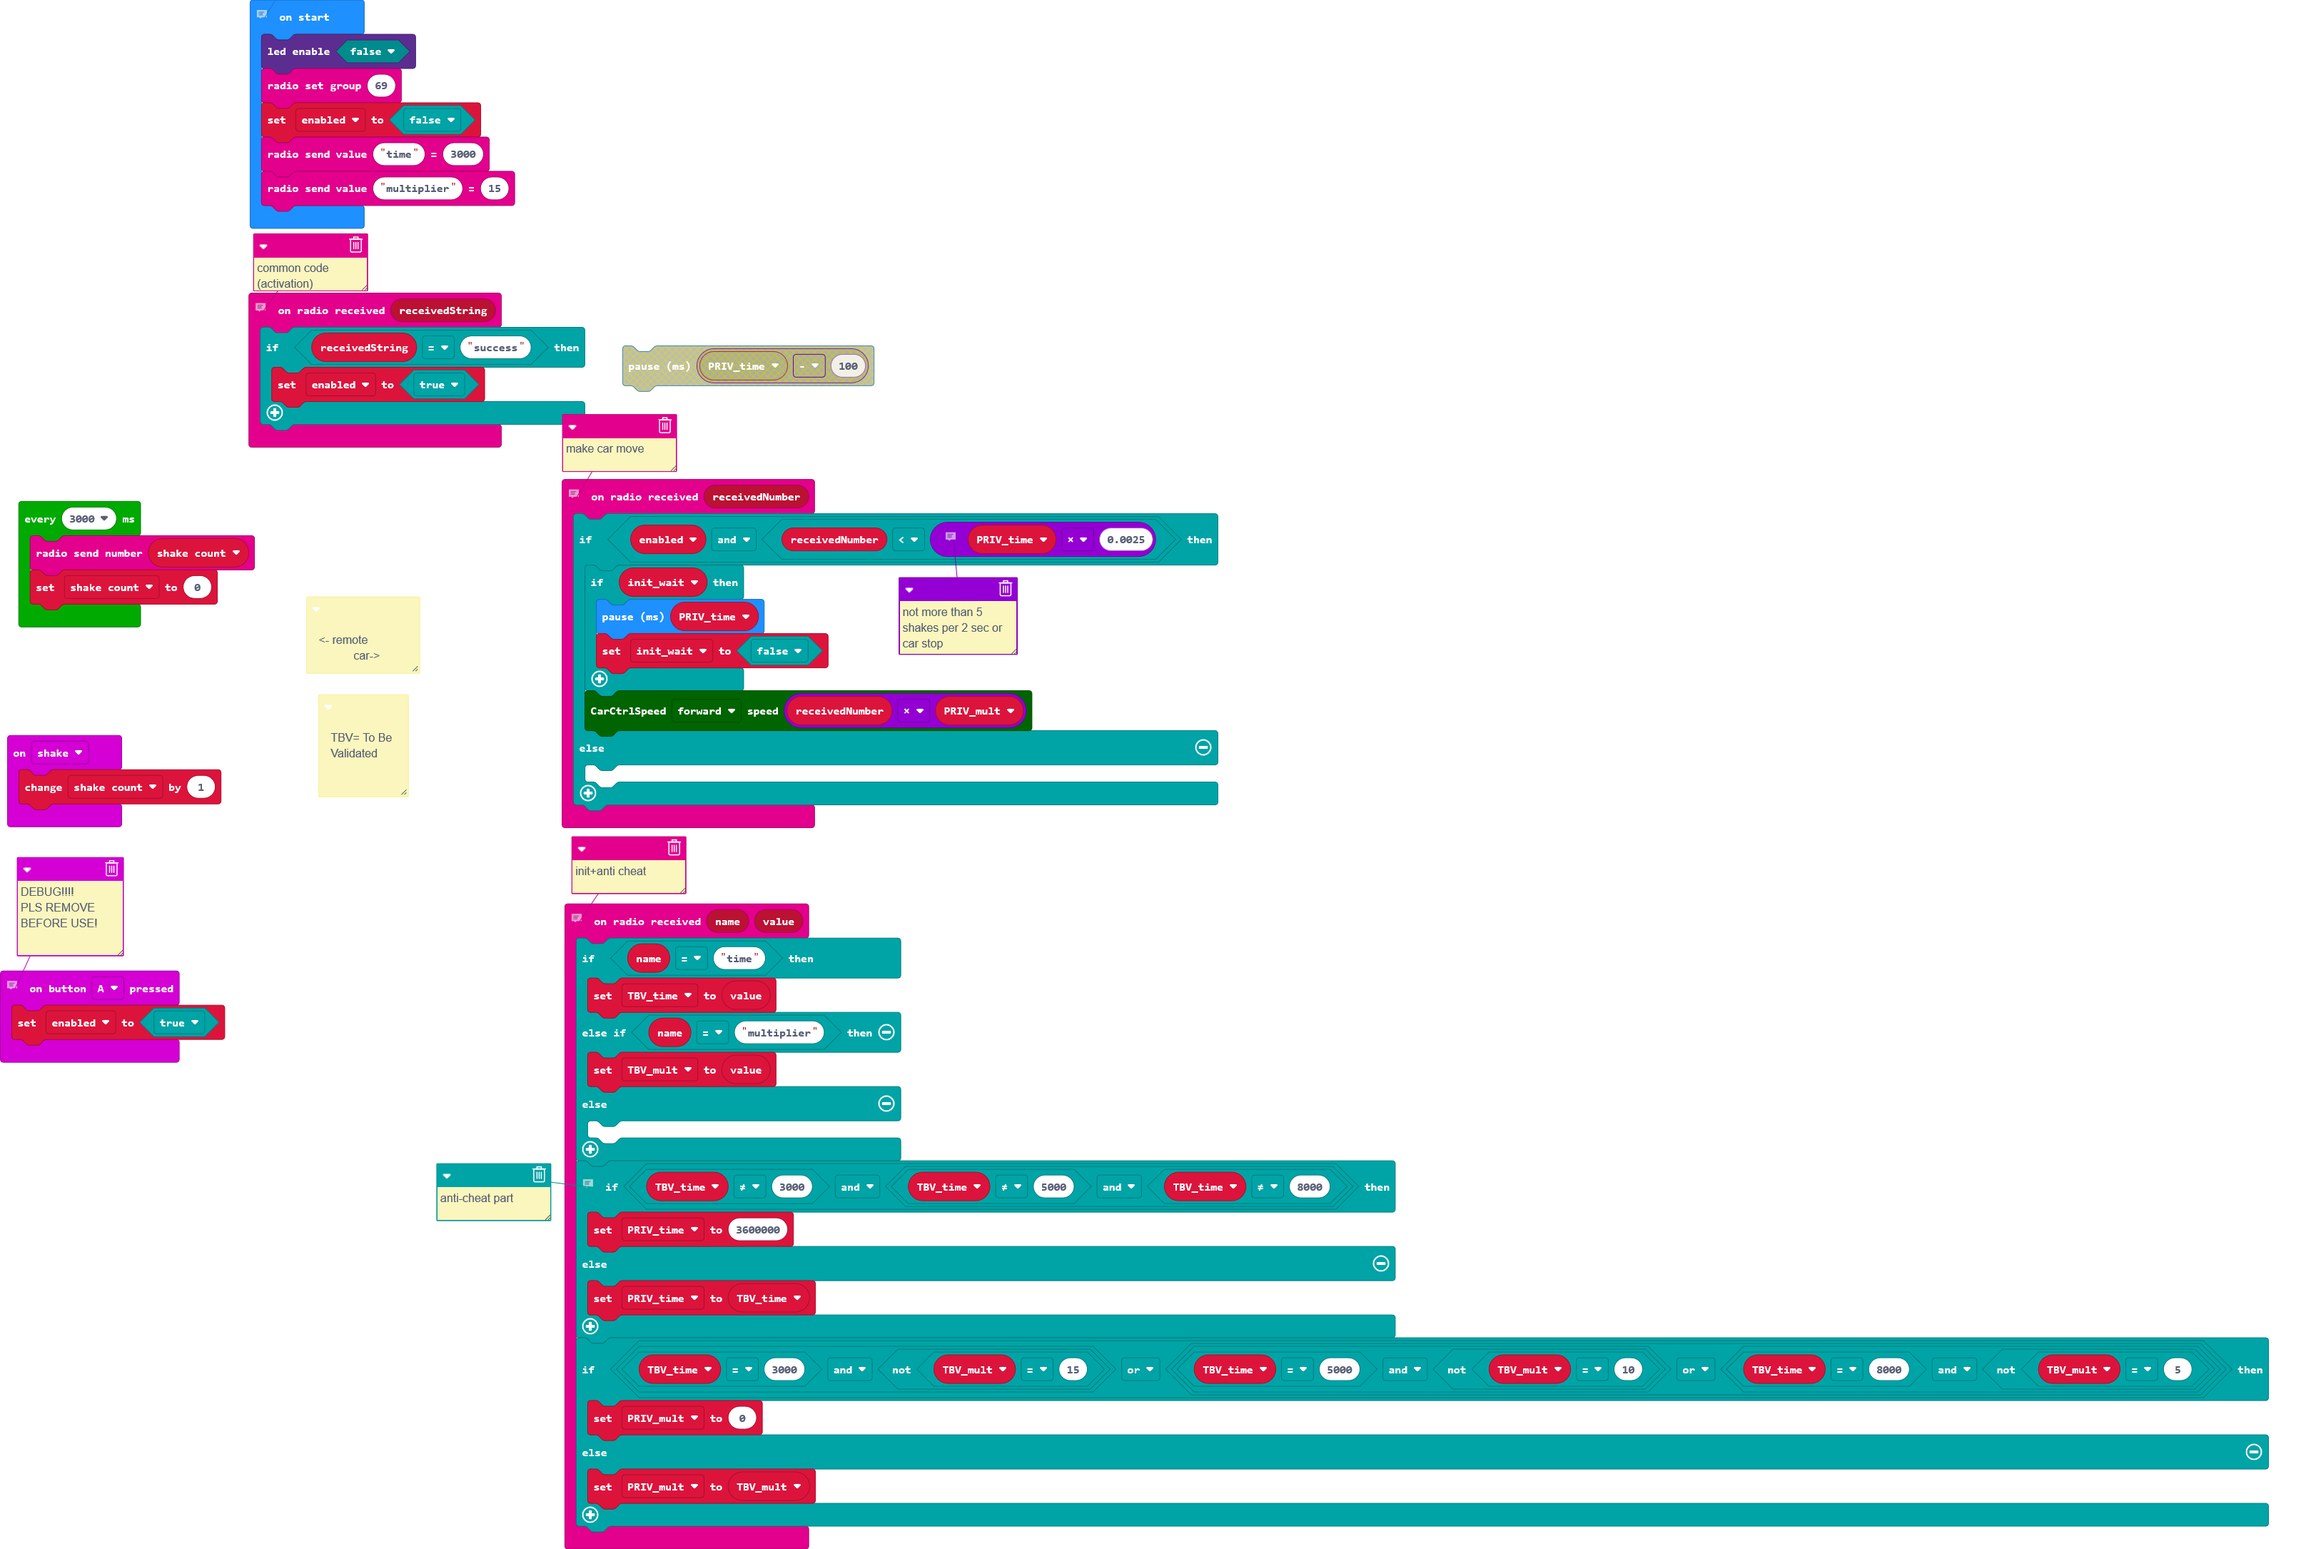
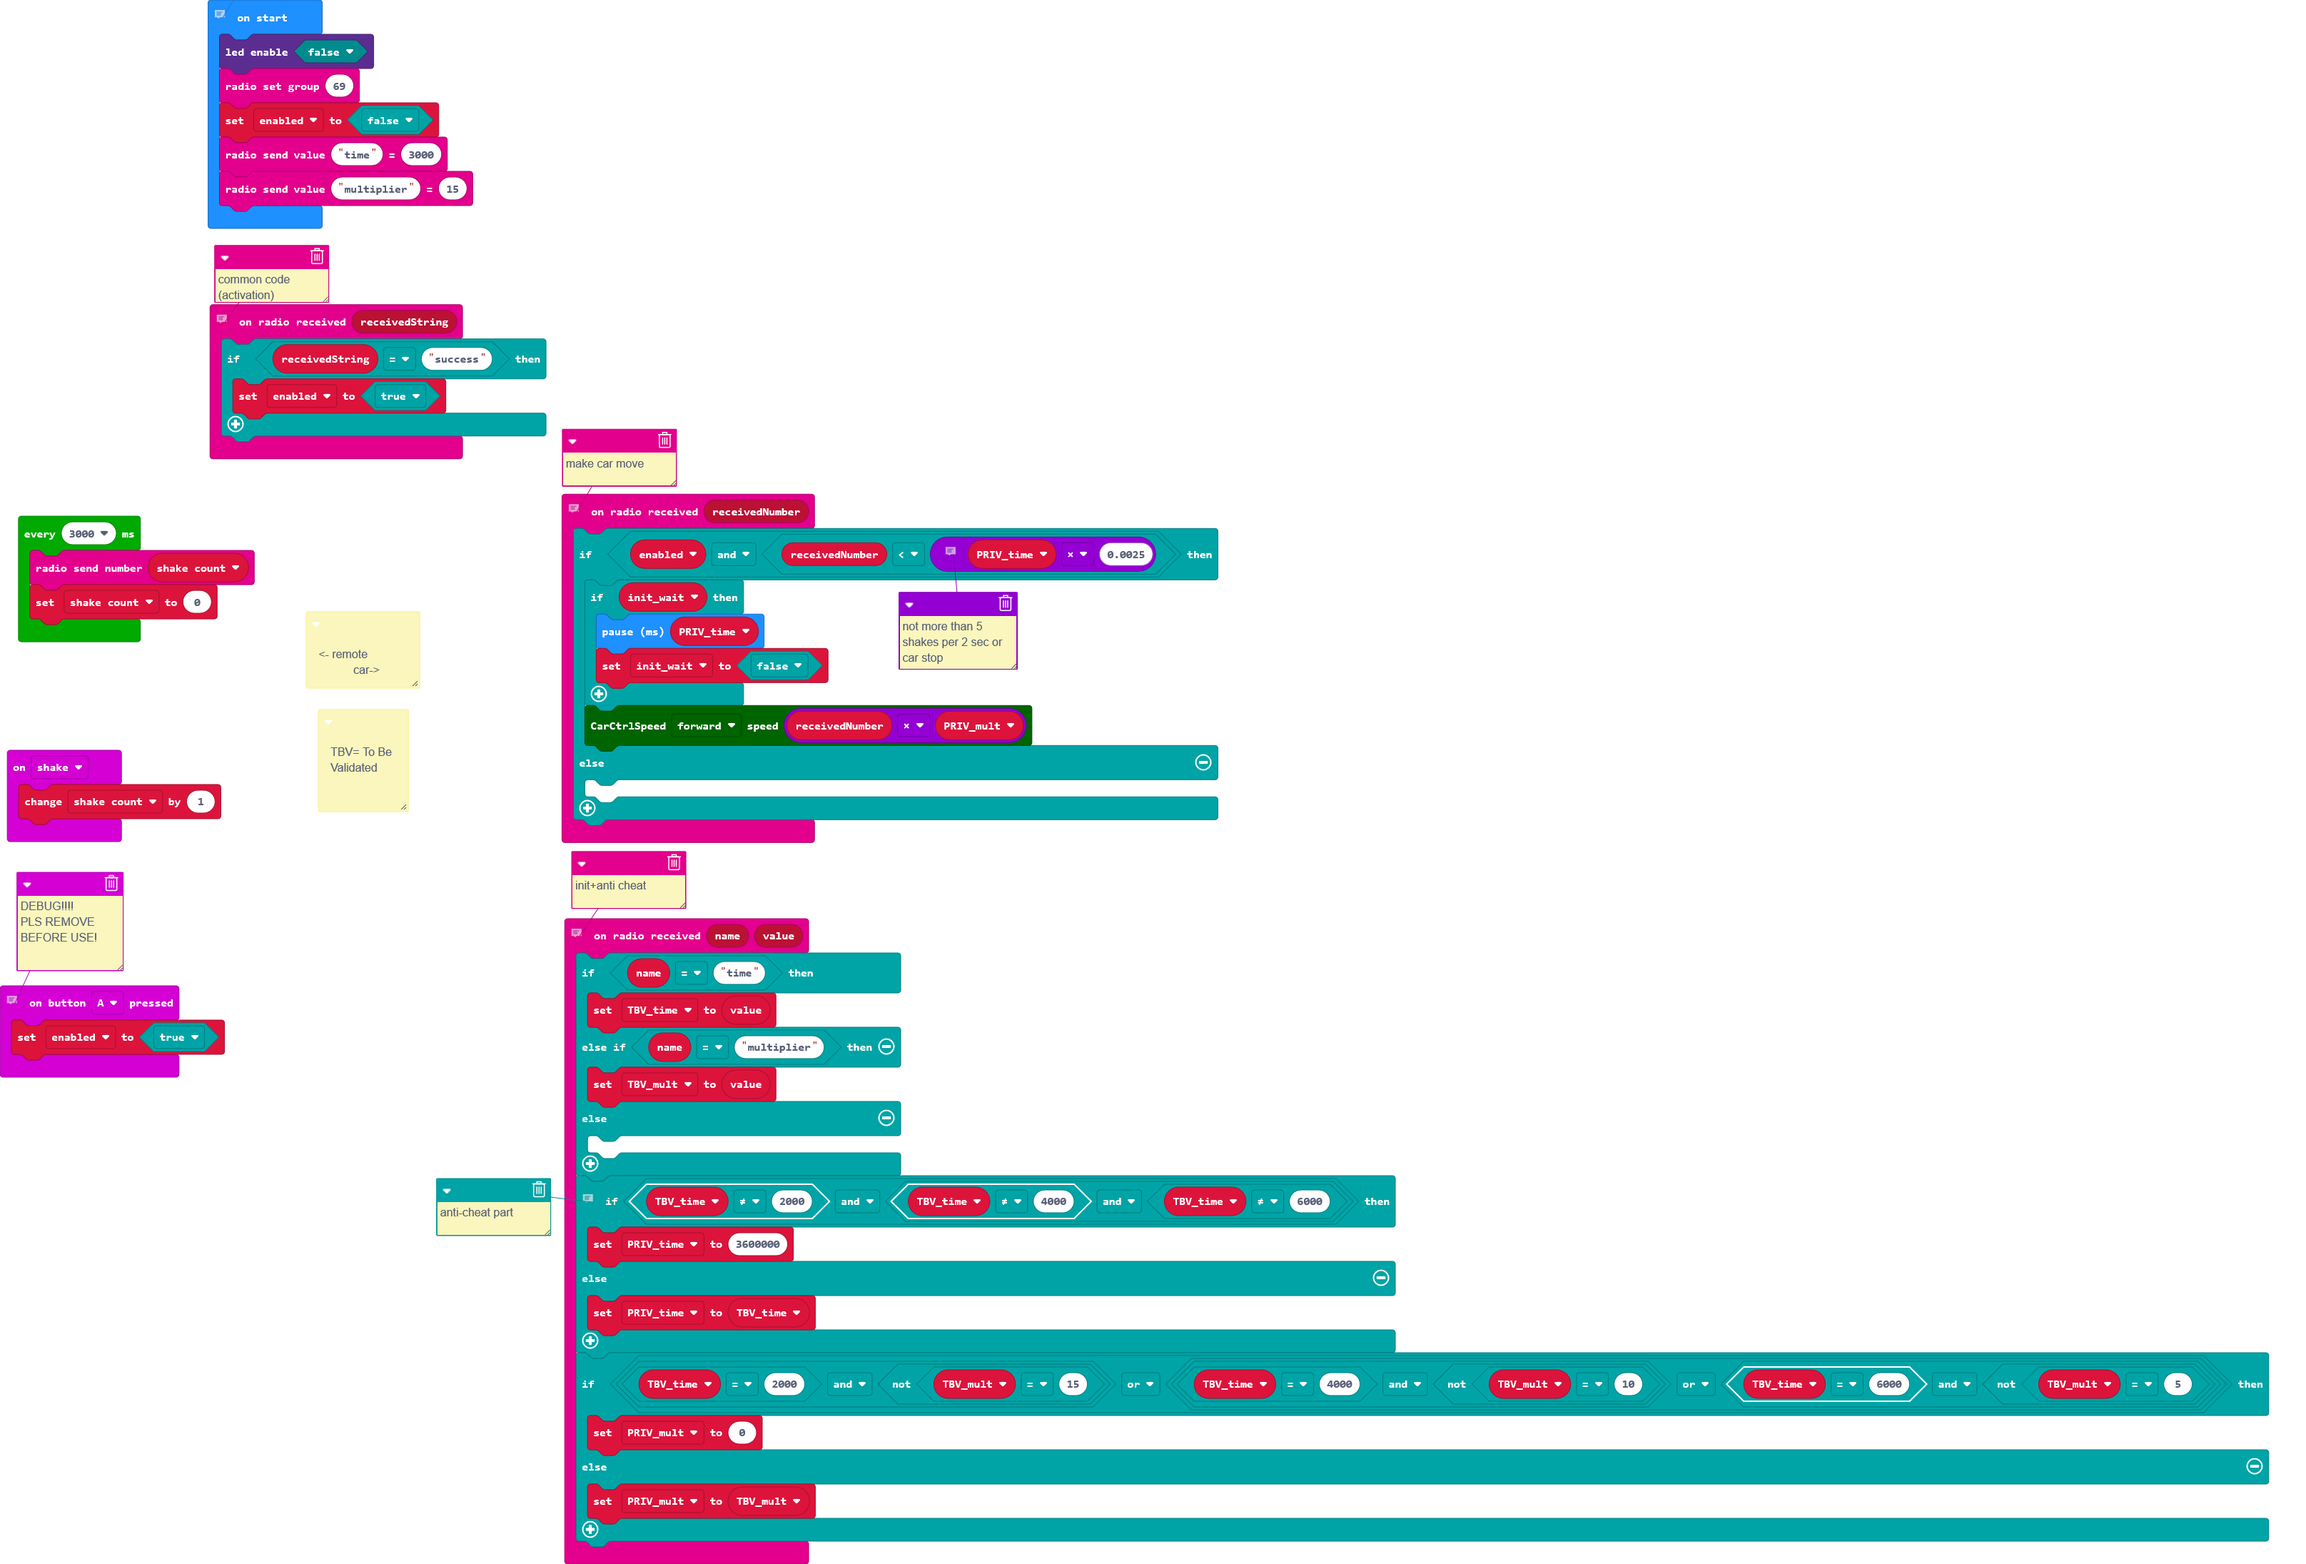
Update main.blocks, main.ts

diff --git a/main.ts b/main.ts
@@ -43,12 +43,12 @@ radio.onReceivedValue(function (name, value) {
     	
     }
     // anti-cheat part
-    if (TBV_time != 3000 && (TBV_time != 5000 && TBV_time != 8000)) {
+    if (TBV_time != 2000 && (TBV_time != 4000 && TBV_time != 6000)) {
         PRIV_time = 3600000
     } else {
         PRIV_time = TBV_time
     }
-    if (TBV_time == 3000 && !(TBV_mult == 15) || (TBV_time == 5000 && !(TBV_mult == 10) || TBV_time == 8000 && !(TBV_mult == 5))) {
+    if (TBV_time == 2000 && !(TBV_mult == 15) || (TBV_time == 4000 && !(TBV_mult == 10) || TBV_time == 6000 && !(TBV_mult == 5))) {
         PRIV_mult = 0
     } else {
         PRIV_mult = TBV_mult
